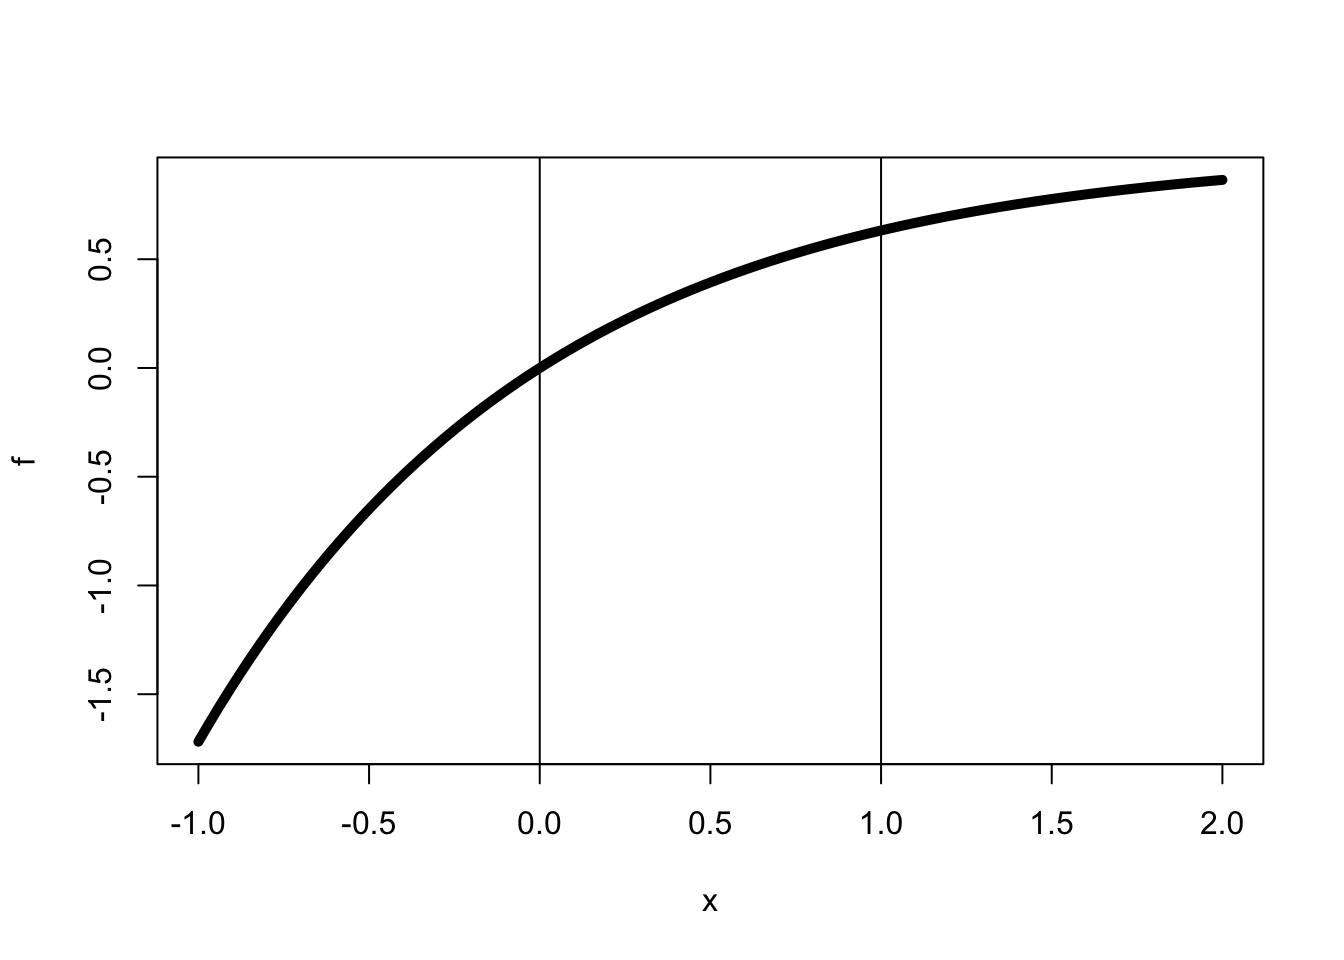
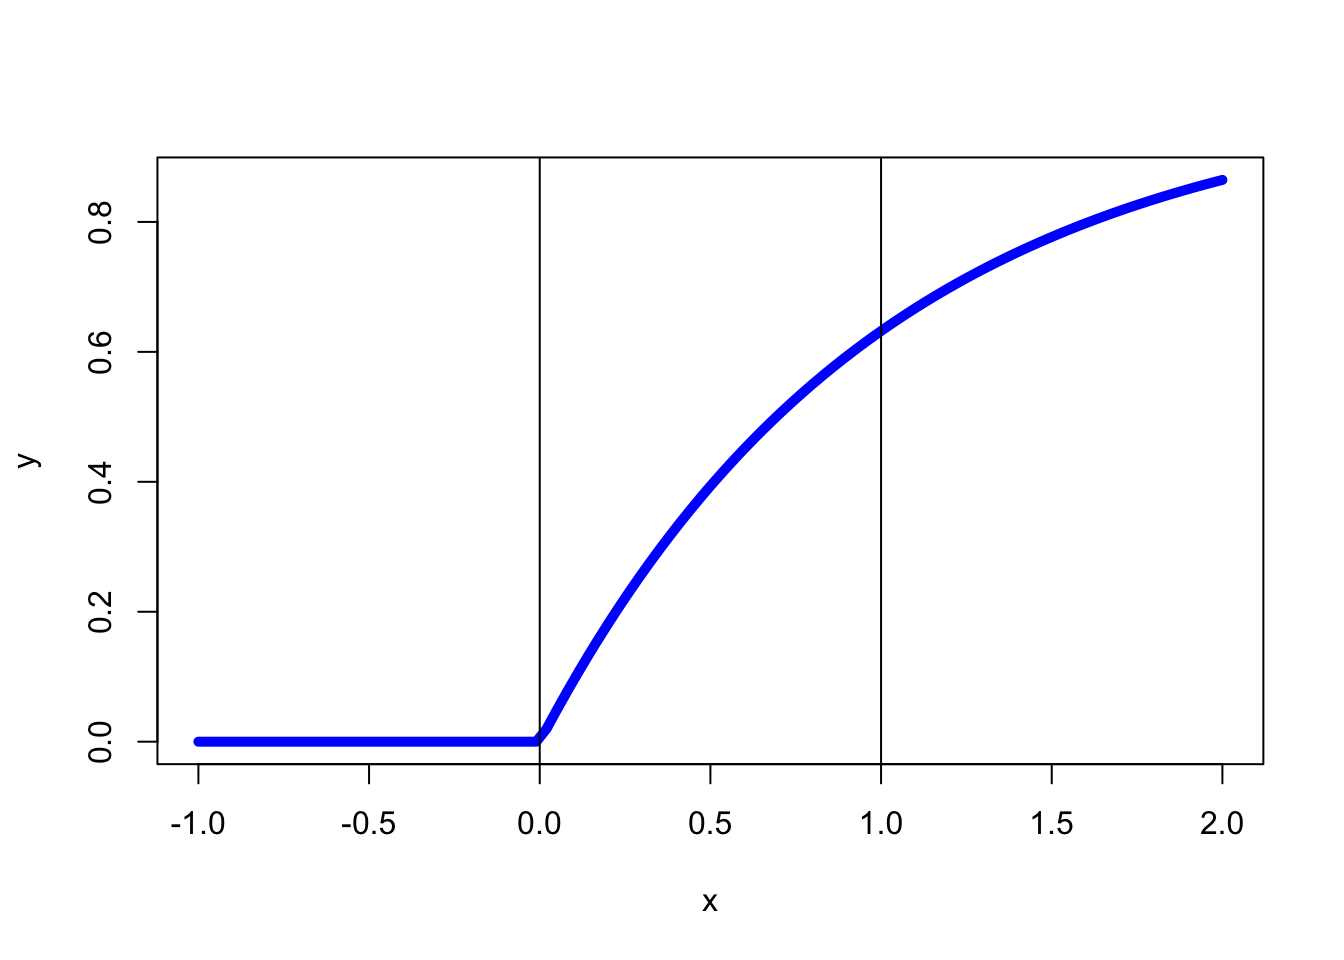
11-05b

diff --git a/test.html b/test.html
@@ -240,17 +240,56 @@ pre > code.sourceCode > span > a:first-child::before { text-decoration: underlin
 </div>
 </div>
 <div class="cell">
-<div class="code-copy-outer-scaffold"><div class="sourceCode cell-code" id="cb2"><pre class="sourceCode r code-with-copy"><code class="sourceCode r"><span id="cb2-1"><a href="#cb2-1" aria-hidden="true" tabindex="-1"></a><span class="co"># -log x</span></span>
-<span id="cb2-2"><a href="#cb2-2" aria-hidden="true" tabindex="-1"></a>y <span class="ot">&lt;-</span> <span class="cf">function</span>(x){<span class="sc">-</span><span class="fu">log</span>(x)}</span>
-<span id="cb2-3"><a href="#cb2-3" aria-hidden="true" tabindex="-1"></a><span class="fu">plot</span>(y, <span class="at">from=</span><span class="sc">-</span><span class="dv">1</span>, <span class="at">to=</span><span class="dv">2</span>,<span class="at">lwd=</span><span class="dv">3</span>)</span></code></pre></div><button title="Copy to Clipboard" class="code-copy-button"><i class="bi"></i></button></div>
-<div class="cell-output cell-output-stderr">
-<pre><code>Warning in log(x): NaNs produced</code></pre>
-</div>
-<div class="code-copy-outer-scaffold"><div class="sourceCode cell-code" id="cb4"><pre class="sourceCode r code-with-copy"><code class="sourceCode r"><span id="cb4-1"><a href="#cb4-1" aria-hidden="true" tabindex="-1"></a><span class="fu">abline</span>(<span class="at">v=</span><span class="fu">c</span>(<span class="dv">0</span>,<span class="dv">1</span>))</span></code></pre></div><button title="Copy to Clipboard" class="code-copy-button"><i class="bi"></i></button></div>
+<div class="code-copy-outer-scaffold"><div class="sourceCode cell-code" id="cb2"><pre class="sourceCode r code-with-copy"><code class="sourceCode r"><span id="cb2-1"><a href="#cb2-1" aria-hidden="true" tabindex="-1"></a>x<span class="ot">=</span><span class="fu">c</span>(<span class="sc">-</span><span class="dv">1</span>,<span class="dv">0</span>,<span class="dv">1</span>,<span class="dv">2</span>)</span>
+<span id="cb2-2"><a href="#cb2-2" aria-hidden="true" tabindex="-1"></a>y<span class="ot">=</span><span class="fu">c</span>(<span class="dv">0</span>,<span class="dv">0</span>,<span class="dv">1</span>,<span class="dv">1</span>)</span>
+<span id="cb2-3"><a href="#cb2-3" aria-hidden="true" tabindex="-1"></a><span class="fu">plot</span>(x,y,<span class="at">type=</span><span class="st">"l"</span>,<span class="at">lwd=</span><span class="dv">4</span>, <span class="at">col=</span><span class="st">"blue"</span>, <span class="at">main=</span><span class="st">"Segmented Function"</span>)</span>
+<span id="cb2-4"><a href="#cb2-4" aria-hidden="true" tabindex="-1"></a><span class="fu">abline</span>(<span class="at">v=</span><span class="fu">c</span>(<span class="dv">0</span>,<span class="dv">1</span>))</span></code></pre></div><button title="Copy to Clipboard" class="code-copy-button"><i class="bi"></i></button></div>
 <div class="cell-output-display">
 <div>
 <figure class="figure">
 <p><img src="test_files/figure-html/unnamed-chunk-3-1.png" class="img-fluid figure-img" width="672"></p>
+</figure>
+</div>
+</div>
+</div>
+<div class="cell">
+<div class="code-copy-outer-scaffold"><div class="sourceCode cell-code" id="cb3"><pre class="sourceCode r code-with-copy"><code class="sourceCode r"><span id="cb3-1"><a href="#cb3-1" aria-hidden="true" tabindex="-1"></a><span class="co"># 1-exp(-x)</span></span>
+<span id="cb3-2"><a href="#cb3-2" aria-hidden="true" tabindex="-1"></a>y <span class="ot">&lt;-</span> <span class="cf">function</span>(x){</span>
+<span id="cb3-3"><a href="#cb3-3" aria-hidden="true" tabindex="-1"></a>    <span class="fu">ifelse</span>(x<span class="sc">&gt;=</span><span class="dv">0</span>, <span class="dv">1</span><span class="sc">-</span><span class="fu">exp</span>(<span class="sc">-</span>x), <span class="dv">0</span>)</span>
+<span id="cb3-4"><a href="#cb3-4" aria-hidden="true" tabindex="-1"></a>  }</span>
+<span id="cb3-5"><a href="#cb3-5" aria-hidden="true" tabindex="-1"></a><span class="fu">plot</span>(y, <span class="at">from=</span><span class="sc">-</span><span class="dv">1</span>, <span class="at">to=</span><span class="dv">1</span>,<span class="at">lwd=</span><span class="dv">4</span>,<span class="at">col=</span><span class="st">"blue"</span>)</span>
+<span id="cb3-6"><a href="#cb3-6" aria-hidden="true" tabindex="-1"></a><span class="fu">abline</span>(<span class="at">v=</span><span class="fu">c</span>(<span class="dv">0</span>,<span class="dv">1</span>))</span></code></pre></div><button title="Copy to Clipboard" class="code-copy-button"><i class="bi"></i></button></div>
+<div class="cell-output-display">
+<div>
+<figure class="figure">
+<p><img src="test_files/figure-html/unnamed-chunk-4-1.png" class="img-fluid figure-img" width="672"></p>
+</figure>
+</div>
+</div>
+</div>
+<div class="cell">
+<div class="code-copy-outer-scaffold"><div class="sourceCode cell-code" id="cb4"><pre class="sourceCode r code-with-copy"><code class="sourceCode r"><span id="cb4-1"><a href="#cb4-1" aria-hidden="true" tabindex="-1"></a>f <span class="ot">&lt;-</span> <span class="cf">function</span>(x){</span>
+<span id="cb4-2"><a href="#cb4-2" aria-hidden="true" tabindex="-1"></a>  <span class="fu">ifelse</span>(x <span class="sc">&gt;=</span> <span class="dv">0</span>, {<span class="dv">1</span><span class="sc">-</span><span class="fu">exp</span>(<span class="sc">-</span>x)}, <span class="dv">0</span>)</span>
+<span id="cb4-3"><a href="#cb4-3" aria-hidden="true" tabindex="-1"></a>}</span></code></pre></div><button title="Copy to Clipboard" class="code-copy-button"><i class="bi"></i></button></div>
+</div>
+<div class="cell">
+<div class="code-copy-outer-scaffold"><div class="sourceCode cell-code" id="cb5"><pre class="sourceCode r code-with-copy"><code class="sourceCode r"><span id="cb5-1"><a href="#cb5-1" aria-hidden="true" tabindex="-1"></a>x <span class="ot">&lt;-</span> <span class="fu">c</span>(<span class="sc">-</span><span class="dv">1</span>,<span class="dv">0</span>,<span class="dv">4</span>)</span>
+<span id="cb5-2"><a href="#cb5-2" aria-hidden="true" tabindex="-1"></a><span class="fu">f</span>(x)</span></code></pre></div><button title="Copy to Clipboard" class="code-copy-button"><i class="bi"></i></button></div>
+<div class="cell-output cell-output-stdout">
+<pre><code>[1] 0.0000000 0.0000000 0.9816844</code></pre>
+</div>
+</div>
+<div class="cell">
+<div class="code-copy-outer-scaffold"><div class="sourceCode cell-code" id="cb7"><pre class="sourceCode r code-with-copy"><code class="sourceCode r"><span id="cb7-1"><a href="#cb7-1" aria-hidden="true" tabindex="-1"></a><span class="co"># custom frame</span></span>
+<span id="cb7-2"><a href="#cb7-2" aria-hidden="true" tabindex="-1"></a><span class="fu">frame</span>()</span>
+<span id="cb7-3"><a href="#cb7-3" aria-hidden="true" tabindex="-1"></a><span class="fu">plot.window</span>(<span class="at">xlim=</span><span class="fu">c</span>(<span class="sc">-</span><span class="dv">1</span>,<span class="dv">1</span>),<span class="at">ylim=</span><span class="fu">c</span>(<span class="dv">0</span>,<span class="dv">1</span>))</span>
+<span id="cb7-4"><a href="#cb7-4" aria-hidden="true" tabindex="-1"></a><span class="fu">axis</span>(<span class="dv">1</span>,<span class="at">at=</span><span class="fu">c</span>(<span class="sc">-</span><span class="fl">1.0</span>,<span class="sc">-</span><span class="fl">0.5</span>,<span class="dv">1</span>,<span class="fl">0.5</span>,<span class="fl">1.0</span>))</span>
+<span id="cb7-5"><a href="#cb7-5" aria-hidden="true" tabindex="-1"></a><span class="fu">axis</span>(<span class="dv">2</span>,<span class="at">at=</span><span class="fu">c</span>(<span class="dv">0</span>,<span class="fl">0.5</span>,<span class="fl">1.0</span>))</span>
+<span id="cb7-6"><a href="#cb7-6" aria-hidden="true" tabindex="-1"></a><span class="fu">box</span>(<span class="at">lwd=</span><span class="dv">2</span>)</span></code></pre></div><button title="Copy to Clipboard" class="code-copy-button"><i class="bi"></i></button></div>
+<div class="cell-output-display">
+<div>
+<figure class="figure">
+<p><img src="test_files/figure-html/unnamed-chunk-7-1.png" class="img-fluid figure-img" width="672"></p>
 </figure>
 </div>
 </div>

diff --git a/transformation.html b/transformation.html
@@ -278,7 +278,8 @@ window.Quarto = {
 <summary>Code</summary>
 <div class="code-copy-outer-scaffold"><div class="sourceCode cell-code" id="cb1"><pre class="sourceCode r code-with-copy"><code class="sourceCode r"><span id="cb1-1"><a href="#cb1-1" aria-hidden="true" tabindex="-1"></a>f <span class="ot">&lt;-</span> <span class="cf">function</span>(x){(<span class="fu">sin</span>(x))<span class="sc">^</span><span class="dv">2</span>}</span>
 <span id="cb1-2"><a href="#cb1-2" aria-hidden="true" tabindex="-1"></a><span class="fu">plot</span>(f, <span class="at">from=</span><span class="dv">0</span>, <span class="at">to=</span><span class="dv">2</span><span class="sc">*</span>pi,<span class="at">lwd=</span><span class="dv">2</span>, <span class="at">col=</span><span class="st">"blue"</span>, </span>
-<span id="cb1-3"><a href="#cb1-3" aria-hidden="true" tabindex="-1"></a>     <span class="at">main=</span><span class="st">""</span>)</span></code></pre></div><button title="Copy to Clipboard" class="code-copy-button"><i class="bi"></i></button></div>
+<span id="cb1-3"><a href="#cb1-3" aria-hidden="true" tabindex="-1"></a>     <span class="at">main=</span><span class="st">""</span>)</span>
+<span id="cb1-4"><a href="#cb1-4" aria-hidden="true" tabindex="-1"></a><span class="fu">abline</span>(<span class="at">h=</span><span class="fl">0.59</span>)</span></code></pre></div><button title="Copy to Clipboard" class="code-copy-button"><i class="bi"></i></button></div>
 </details>
 <div class="cell-output-display">
 <div>
@@ -341,6 +342,8 @@ f_X(x) &amp;= 1 \text{ if } 0 &lt; x &lt; 1 \\
       &amp;= 1 - F_X(e^{-y}) \\
       &amp;= 1 - e^{-y}. \qquad (F_X(x) = x)
 \end{align*}\]</span></p>
+<p>For <span class="math inline">\(y \le 0 \quad F_Y(y) = 0\)</span></p>
+<p>Thus:</p>
 
 <div class="no-row-height column-margin column-container"><div class="">
 <div class="cell">
@@ -352,13 +355,18 @@ f_X(x) &amp;= 1 \text{ if } 0 &lt; x &lt; 1 \\
 </div>
 </div>
 </div>
-</div></div><p>For <span class="math inline">\(y \le 0 \quad F_Y(y) = 0\)</span></p>
-<p>Thus:</p>
-<p><span class="math display">\[\begin{align*}
+</div></div><p><span class="math display">\[\begin{align*}
   F_Y(y) = \begin{cases}
               1 - e^{-y} &amp; \text{if } y \gt 0 \\
               0 &amp; otherwise
            \end{cases}
+\end{align*}\]</span></p>
+<p><strong>Theorem 2.1.5</strong> Let <span class="math inline">\(X\)</span> have pdf <span class="math inline">\(f_X(x)\)</span> and let <span class="math inline">\(Y=g(X)\)</span> where <span class="math inline">\(g\)</span> is a monotone function. Let <span class="math inline">\(\mathscr{X}\)</span> and <span class="math inline">\(\mathscr{Y}\)</span> be defined by (2.1.7). Suppose that <span class="math inline">\(f_X(x)\)</span> is continuous on <span class="math inline">\(\mathscr{X}\)</span> and that <span class="math inline">\(g^{-1}(y)\)</span> has a continuous derivative on <span class="math inline">\(\mathscr{Y}\)</span> . Then the pdf of <span class="math inline">\(Y\)</span> is given by</p>
+<p><span class="math display">\[\begin{align*}
+  f_Y(y) = \begin{cases}
+          f_X(g^{-1}(y)) \left\lvert \dfrac{d}{dy} g{-1}(y) \right\rvert    &amp; y \in Y \\
+          0 &amp; otherwise
+          \end{cases}
 \end{align*}\]</span></p>
 
 
